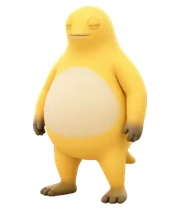
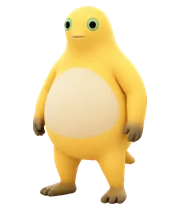
use all six classic idle frames

diff --git a/src/assets/pets/index.ts b/src/assets/pets/index.ts
@@ -149,7 +149,7 @@ export const PET_SKINS: readonly PetSkin[] = [
     },
     frameIntervalMs: 164,
     frameIntervalMsByState: {
-      idle: 1200,
+      idle: 600,
       beckon: 220,
       walk: 140,
       run: 90,

diff --git a/DEVELOPMENT.md b/DEVELOPMENT.md
@@ -113,11 +113,11 @@ CyberNaiwa/
 - **空闲自动行为**：成年 idle 9–16 秒后只自动进入 `wave`（扎马步）2.4 秒，再回 idle；beckon/walk/run/look/think/clap/crouch 不会自动播放。幼体保持 7–14 秒随机 walk/wave 的独立行为。
 - 动画关闭时强制回到 idle，并取消进行中的状态定时器；点击仍能切换动作/触发大笑，但只显示静态首帧。
 - `PetAnimation` 只在当前状态内轮播帧，切状态立即重置到第 0 帧；缺少某状态的帧时回退到 `idle`，不会渲染空帧。
-- 成年：经典 Idle 使用 `classic/idle-chubby/00–02.png` 三帧圆胖待机（`待机-06/01/03`，首帧最正面，1200ms/帧）；Walk 使用同一画风的 Nailong 走路帧；Click / Happy 使用 Codex Voice Input 的 25 帧大笑（手放肚子 → 仰头 → 抱头 → 回落），只由左键双击触发；Wave（扎马步）使用 `adult-wave.png`，Beckon（招手）使用 `classic/actions/beckon/00–02.png`。新动作的经典原画来自 Nailong-Studio 的 `pet/` 逐帧；ASCII 端 `beckon` 有独立 3 帧，其余新增动作复用最接近的现有姿态：run=walk、look/think=idle、clap=wave、eat=idle、crouch=wave，**绝不把 clap/eat 指到 happy/click 大笑帧**。
+- 成年：经典 Idle 使用 `classic/idle-chubby/00–05.png` 六帧圆胖待机（`待机-01–06`，循环从最正面的 06 开始，600ms/帧）；Walk 使用同一画风的 Nailong 走路帧；Click / Happy 使用 Codex Voice Input 的 25 帧大笑（手放肚子 → 仰头 → 抱头 → 回落），只由左键双击触发；Wave（扎马步）使用 `adult-wave.png`，Beckon（招手）使用 `classic/actions/beckon/00–02.png`。新动作的经典原画来自 Nailong-Studio 的 `pet/` 逐帧；ASCII 端 `beckon` 有独立 3 帧，其余新增动作复用最接近的现有姿态：run=walk、look/think=idle、clap=wave、eat=idle、crouch=wave，**绝不把 clap/eat 指到 happy/click 大笑帧**。
 - 幼体：Idle / Walk 使用幼体正面；Happy / Click 使用幼体素材右一叉腰；Wave 使用幼体素材中间抬手。幼体不使用成年大笑、挥手或新动作素材。
 - Sleep 与 Sad 状态均已移除（用户反馈睡觉和伤心界面不好看）；不再生成/播放 sleep 或 sad 帧。
 - ASCII 帧间隔：成年 idle 1200ms、walk 260ms、happy/click 164ms、wave 500ms、beckon 350ms、run 130ms、look 300ms、think 350ms、clap 160ms、eat 260ms、crouch 500ms；幼体 idle 1200ms、walk 260ms、happy 320ms、click 180ms、wave 500ms、beckon 350ms。
-- 奶家经典图片帧有独立间隔：idle 1200ms、beckon 220ms、walk 140ms、run 90ms、look 220ms、think 260ms、clap 110ms、eat 180ms、crouch 160ms、happy/click 164ms；wave 单帧不轮播，idle 3 帧循环。25×164ms ≈ 4.10s，和 4.11s 音频对齐。
+- 奶家经典图片帧有独立间隔：idle 600ms、beckon 220ms、walk 140ms、run 90ms、look 220ms、think 260ms、clap 110ms、eat 180ms、crouch 160ms、happy/click 164ms；wave 单帧不轮播，idle 6 帧循环。25×164ms ≈ 4.10s，和 4.11s 音频对齐。
 
 ### 点击语音
 
@@ -134,7 +134,7 @@ CyberNaiwa/
 - 幼体挥手源图裁切框从 `X=365/W=270` 改为 `X=310/W=285`：原框正好从 V 字手中间切过，导致手指缺失；新框完整包住中间幼体的抬手，112×70 与 128×80 两套网格都已重新采样。
 - `PetAnimation` 根据 `settings.palette` 选择帧组：`original` 走 `frames` / `babyFrames`，`cyber` 走 `cyberFrames` / `cyberBabyFrames`，`classic` 直接切到图片皮肤 `naiwa-classic`。成年 ASCII JSON 现在有 6 个基础动作的帧（idle/walk/happy/click/wave/beckon），幼体仍是原来的 5 个；`index.ts` 把 run/look/think/clap/eat/crouch 映射到最接近的现有姿态（run=walk、look/think=idle、clap=wave、eat=idle、crouch=wave），`beckon` 使用自己的 3 帧，并让 HUD、语音、时长保持独立。幼体不使用新动作；左键动作栈永远不引用 happy/click。
 - 成年 ASCII `wave` 不再从旧的裁切帧补边距，而是从经典 `adult-wave.png` 固定取景重采样：`FixedSide 430`、`CenterX 148`、`CenterY 206`，原色 112×70、量子 128×80 各一套；膝下小腿的 `|` 色调回金色 `%`，脚掌保留棕色 `|`，所以左膝到脚掌是连续轮廓。脚本是 `_qa/convert-naiwa.ps1` 和 `_qa/patch-ascii-wave-knee.py`。
-- 奶家经典图片皮肤：成年 idle 默认用 `classic/idle-chubby/00–02.png`（3 帧，来自 Nailong `待机-06/01/03`，180×210、底部 y=204、1200ms/帧，首帧最正面，和走路/跑步同一圆胖画风）；`adult-idle-aligned.png` 保留为高瘦正面备选，`classic/idle/00–05.png` 仍是 3/4 侧身备选。wave/扎马步用 `adult-wave.png`，beckon/招手用 `classic/actions/beckon/00–02.png`（来自 `招手-01/02/04`，220ms/帧），happy/click 用 `laugh-hd/000–024.webp`（524×720，164ms/帧，25×164≈4.10s，对齐 4.11s 音频；来自 1080×1474 原片 6.5–8.75s 抽 25 帧，去白底/地面阴影/胯下白块，3% padding，Lanczos 缩到 720 高，不锐化）；walk/run/look/think/clap/beckon/crouch 用 `classic/actions/<state>/` 的逐帧 PNG，`eat` 保留但不接入左键栈。动作帧统一补齐到 180×210 画布、底部对齐到 y=204（6px 底边距），所以脚和膝盖不会被裁。幼体 idle/walk、happy/click、wave 各用一张原画。`laugh/` 保留 180×180 的 MIT 原始帧，`laugh-cropped/` 是紧裁中间帧，`laugh-hires/` 是 648×888 的 6× 回退放大版；当前产品路径是 `laugh-hd`。
+- 奶家经典图片皮肤：成年 idle 默认用 `classic/idle-chubby/00–05.png`（6 帧，来自 Nailong `待机-01–06`，180×210、底部 y=204、600ms/帧，循环从最正面的 06 开始，和走路/跑步同一圆胖画风）；`adult-idle-aligned.png` 保留为高瘦正面备选，`classic/idle/00–05.png` 仍是 3/4 侧身备选。wave/扎马步用 `adult-wave.png`，beckon/招手用 `classic/actions/beckon/00–02.png`（来自 `招手-01/02/04`，220ms/帧），happy/click 用 `laugh-hd/000–024.webp`（524×720，164ms/帧，25×164≈4.10s，对齐 4.11s 音频；来自 1080×1474 原片 6.5–8.75s 抽 25 帧，去白底/地面阴影/胯下白块，3% padding，Lanczos 缩到 720 高，不锐化）；walk/run/look/think/clap/beckon/crouch 用 `classic/actions/<state>/` 的逐帧 PNG，`eat` 保留但不接入左键栈。动作帧统一补齐到 180×210 画布、底部对齐到 y=204（6px 底边距），所以脚和膝盖不会被裁。幼体 idle/walk、happy/click、wave 各用一张原画。`laugh/` 保留 180×180 的 MIT 原始帧，`laugh-cropped/` 是紧裁中间帧，`laugh-hires/` 是 648×888 的 6× 回退放大版；当前产品路径是 `laugh-hd`。
 - HUD 渲染规则：`Pet.tsx` 只在 `settings.palette !== "classic"` 时渲染 `NAIWA//STATE`；原色赛博用暖黄 `rgba(255,216,77,0.62)` + 黄点，量子赛博沿用蓝色 `rgba(126,249,255,0.6)` + 青点，奶家经典不渲染 HUD。设置页不再有「桌宠标签」开关，`hudEnabled` 从 `PetSettings` 移除。
 - 图片尺寸用 `height: 78vh; width: auto`，不是 `max-height`：原图小于窗口时也会放大。图片底部对齐 stage 内容底边，保留 22px 底部 padding；成年待机和动作的角色高约 280px，47 张动作帧的 alpha 最外像素距画布边缘至少 6px，映射到窗口后脚底距底边约 30px。
 - 奶家经典每个动作的帧间隔由 `frameIntervalMsByState` 控制；happy/click 使用 164ms，和 4.11s 大笑音频对齐。
@@ -291,4 +291,5 @@ cargo check --manifest-path src-tauri/Cargo.toml
 - 2026-11-16 replace the classic idle with the three-frame `idle-chubby` set from the Nailong `待机-06/01/03` art (front-facing first frame, 180×210, 6 px bottom, 1200 ms) and add the adult `beckon` action (three `招手-01/02/04` frames, 220 ms classic / 350 ms ASCII, 1800 ms flow) right after `wave`; generate dedicated 112×70/128×80 beckon grids, restore misread `_` limb pixels to `|`, and keep the action out of the baby stack.
 - 2026-11-16 implement native click-through: a 32 ms global cursor poll toggles `setIgnoreCursorEvents` only over character pixels or the settings button, while the bubble/HUD/shadow/transparent margins pass clicks to the window below. The gear is shown from the same `pointerInside` state so it remains reachable while the window is click-through; transparent margins no longer drag, so the character is the drag handle.
 - 2026-11-17 move the adult laugh to left double-click, restore right-click to the native menu, skip voice/subtitles for walk/run, and remove the settings gear now that the right-click menu always exposes Settings; transparent edges now have no button hotspot at all.
+- 2026-11-17 expand the classic idle from the three-frame preview to all six Nailong `待机` frames (`05 → 00 → 01 → 02 → 03 → 04`, 600 ms/frame) so the standing loop blinks and sways instead of repeating three poses.
 - 2026-11-16 bump to 0.2.1 and replace `docs/settings.png` with the 赛博奶蛙 settings screenshot (原色模式/量子模式, no sleep copy, version 0.2.1).

diff --git a/README.en.md b/README.en.md
@@ -139,7 +139,7 @@ Two keys live in that file: `settings` (always-on-top, scale, animation, sound, 
 
 The default `cyber-naiwa` skin stores Original Cyber adult/baby frames in `naiwa-frames.json` and `naiwa-baby-frames.json` (112×70), and Quantum Cyber adult/baby frames in `naiwa-cyber-frames.json` and `naiwa-cyber-baby-frames.json` (128×80). The adult sets cover six base poses (idle/walk/happy/click/wave/beckon); adult happy/click use 25 frames each, wave uses two, and beckon uses three. The baby keeps the original five (idle/walk/happy/click/wave), two frames per state. The extra adult actions (run/look/think/clap/eat/crouch) are registered in `index.ts` as aliases of the closest base pose; beckon has its own three-frame conversion. Both keep their own HUD labels, timing and durations. The adult wave grids are resampled from `classic/adult-wave.png` with a fixed 430 px crop centred at (148,206) for both 112×70 and 128×80, so the knees and feet no longer touch the grid edge; the shadowed shins are promoted from `|` to `%` while the feet stay brown, keeping the left knee-to-foot silhouette continuous. Beckon is converted from the Nailong `招手-01/02/04` art with a fixed 230 px crop centred at (63,99) for both grids; warm hand/foot pixels misread as the mouth tone are restored to `|`. `frames.ts` maps characters to colour tones and declares frame timing. The 25 adult laugh frames come from [liaosongjie/Codex-Voice-Input](https://github.com/liaosongjie/Codex-Voice-Input)'s MIT animation frames (fixed-crop conversion to ASCII); the other base grids were pixel-mapped from the official design database's adult, juvenile, laugh, and wave references; the beckon grids come from the Nailong-Studio MIT `招手` frames. No ASCII reference image files themselves are shipped in the repo. The app icon is taken from the baby's Original Cyber ASCII idle frame instead of being drawn separately.
 
-The `naiwa-classic` skin lives in `src/assets/pets/classic/`: adult idle defaults to `classic/idle-chubby/00–02.png` (three frames from the Nailong `待机-06/01/03` art, 180×210 with a 6 px bottom margin, 1200 ms per frame; frame 00 is the most front-facing and the set matches the walk/run art style). `adult-idle-aligned.png` remains the tall front fallback, and `classic/idle/00–05.png` keeps the 3/4 side-facing alternative. Adult wave and all three baby states are transparent cut-outs of the official design reference sheets; the baby crops were widened so hands, feet, and knees keep a 14 px inner margin; adult happy/click uses `classic/laugh-hd/000–024.webp`, extracted from the 1080×1474 `naiwa-laugh.mp4` at 6.5–8.75 s. The 25 frames have their white background, floor shadow, and white crotch gap removed, keep 3% padding, and are Lanczos-downscaled to 524×720 with no sharpening at 164 ms each (25 × 164 ms ≈ 4.10 s, matching the 4.11 s laugh audio). `classic/laugh/` keeps the original 180×180 MIT frames and `classic/laugh-hires/` keeps the 648×888 6× upscale fallback. The video source has no explicit redistribution licence in `SOURCES.md`; the project owner approved its fan-use inclusion, and the skin can switch back to `laugh-hires` if needed. Action frames use `classic/actions/<action>/` padded to 180×210 with a 6 px bottom margin; the eating frames stay in the library but are not wired to left-click because the open-mouth pose reads as a laugh. The new beckon action uses `classic/actions/beckon/00–02.png` from `招手-01/02/04` at 220 ms per frame. Images scale to the window height so the body stays about 280 px and the feet stay visible. The cut-out/upscale scripts are `_qa/make-classic-cutouts.ps1`, `_qa/make-baby-cutouts.py`, `_qa/crop-classic-laugh.ps1`, `_qa/upscale-classic-laugh.py`, `_qa/build-hd-laugh.py`, `_qa/build-classic-actions.py`, `_qa/build-classic-idle.py`, `_qa/build-classic-idle-beckon.py`, and `_qa/insert-ascii-beckon.py` (`_qa/` is not committed). This is fan-made, non-commercial use; source and licence notes are in `_qa/reference/official/laugh/SOURCES.md`.
+The `naiwa-classic` skin lives in `src/assets/pets/classic/`: adult idle defaults to `classic/idle-chubby/00–05.png` (six frames from the Nailong `待机-01–06` art, 180×210 with a 6 px bottom margin, 600 ms per frame; the loop starts on the most front-facing 06 and the set matches the walk/run art style). `adult-idle-aligned.png` remains the tall front fallback, and `classic/idle/00–05.png` keeps the 3/4 side-facing alternative. Adult wave and all three baby states are transparent cut-outs of the official design reference sheets; the baby crops were widened so hands, feet, and knees keep a 14 px inner margin; adult happy/click uses `classic/laugh-hd/000–024.webp`, extracted from the 1080×1474 `naiwa-laugh.mp4` at 6.5–8.75 s. The 25 frames have their white background, floor shadow, and white crotch gap removed, keep 3% padding, and are Lanczos-downscaled to 524×720 with no sharpening at 164 ms each (25 × 164 ms ≈ 4.10 s, matching the 4.11 s laugh audio). `classic/laugh/` keeps the original 180×180 MIT frames and `classic/laugh-hires/` keeps the 648×888 6× upscale fallback. The video source has no explicit redistribution licence in `SOURCES.md`; the project owner approved its fan-use inclusion, and the skin can switch back to `laugh-hires` if needed. Action frames use `classic/actions/<action>/` padded to 180×210 with a 6 px bottom margin; the eating frames stay in the library but are not wired to left-click because the open-mouth pose reads as a laugh. The new beckon action uses `classic/actions/beckon/00–02.png` from `招手-01/02/04` at 220 ms per frame. Images scale to the window height so the body stays about 280 px and the feet stay visible. The cut-out/upscale scripts are `_qa/make-classic-cutouts.ps1`, `_qa/make-baby-cutouts.py`, `_qa/crop-classic-laugh.ps1`, `_qa/upscale-classic-laugh.py`, `_qa/build-hd-laugh.py`, `_qa/build-classic-actions.py`, `_qa/build-classic-idle.py`, `_qa/build-classic-idle-beckon.py`, and `_qa/insert-ascii-beckon.py` (`_qa/` is not committed). This is fan-made, non-commercial use; source and licence notes are in `_qa/reference/official/laugh/SOURCES.md`.
 
 Want to try a PNG/WEBP/GIF skin? `src/assets/pets/README.md` shows how to register an `ImagePetSkin`. The renderer already handles both ASCII and image sequences. Please only add art you have the right to redistribute.
 

diff --git a/README.md b/README.md
@@ -139,7 +139,7 @@ pnpm tauri build --bundles dmg
 
 默认 ASCII 角色 `cyber-naiwa` 的原色赛博成年帧在 `src/assets/pets/cyber-naiwa/naiwa-frames.json`，幼体帧在 `naiwa-baby-frames.json`（112×70）；量子赛博成年/幼体帧在 `naiwa-cyber-frames.json`、`naiwa-cyber-baby-frames.json`（128×80）。成年帧覆盖 idle / walk / happy / click / wave / beckon；成年 happy/click 各 25 帧，wave 2 帧，beckon 3 帧，其余状态每态 2 帧；幼体仍是 idle / walk / happy / click / wave 每态 2 帧。新增的 run / look / think / clap / eat / crouch 在 `src/assets/pets/index.ts` 复用最接近的现有 ASCII 姿态，`beckon` 则有独立的 3 帧招手帧，二者都保留独立 HUD 标签、帧间隔和动作时长。成年 wave 帧从 `classic/adult-wave.png` 用固定取景 `FixedSide 430`、中心 `(148,206)` 重采样到 112×70/128×80，膝盖、脚不再贴网格边；膝下小腿的 `|` 色调回金色 `%`，脚掌保留棕色，所以左膝到脚掌是连续轮廓。招手帧从 Nailong 的 `招手-01/02/04` 原画用 `FixedSide 230`、中心 `(63,99)` 转成 112×70/128×80，脚部误判的 `_` 已改回 `|`。字符 tone、帧间隔和渲染逻辑在 `frames.ts`。成年大笑的 25 帧来自 [liaosongjie/Codex-Voice-Input](https://github.com/liaosongjie/Codex-Voice-Input) 的 MIT 动画帧（固定取景后转成 ASCII）；其余基础帧由官方设计资料库中的成年 / 幼体 / 大笑 / 挥手参考图逐像素映射生成，招手 3 帧来自 Nailong-Studio 的 MIT `招手` 素材；ASCII 帧的参考图片本身不入库。应用图标取自幼体原色赛博 ASCII 待机帧，不再单独绘制。
 
-奶家经典皮肤 `naiwa-classic` 在 `src/assets/pets/classic/`：成年待机默认使用 `classic/idle-chubby/00–02.png`（3 帧，180×210，底部留 6px，1200ms/帧，来自 Nailong `待机-06/01/03` 的圆胖全身原画，首帧最正面），和走路/跑步同一画风；`adult-idle-aligned.png` 保留为高瘦正面备选，Nailong 的 `classic/idle/00–05.png` 仍是 3/4 侧身备选。成年扎马步（wave）和幼体三态是官方设计参考图的透明抠图；幼体三态已重新放宽裁切，手、脚、膝盖都有 14px 内边距；成年 happy/click 使用 `classic/laugh-hd/000–024.webp`，从 1080×1474 的 `naiwa-laugh.mp4` 6.5–8.75 秒抽 25 帧，去掉白底、地面阴影和胯下白块，统一留 3% 边距后 Lanczos 缩到 524×720，不做锐化，164ms/帧，和 4.11 秒大笑音频对齐。`classic/laugh/` 保留原始 180×180 MIT 帧，`classic/laugh-hires/` 保留 648×888 的 6× 放大回退版；视频源的再分发许可记录不完整，已按项目所有者确认作为粉丝二创使用，必要时可切回 `laugh-hires`。走、跑、张望、思考、鼓掌、招手、蹲伏使用 `classic/actions/<action>/` 的逐帧原画，来自 Nailong-Studio 的 MIT 素材，统一补齐到 180×210 画布、底部留 6px，所以脚和膝盖不会被窗口裁掉；招手（beckon）3 帧来自 `招手-01/02/04`，220ms/帧；`进食` 帧保留在素材里，但因为张嘴仰头太像大笑，暂不接入左键动作栈。图片按窗口高度缩放，成年待机和动作的身体高度约 280px。抠图/放大/补帧脚本是 `_qa/make-classic-cutouts.ps1`、`_qa/make-baby-cutouts.py`、`_qa/crop-classic-laugh.ps1`、`_qa/upscale-classic-laugh.py`、`_qa/build-hd-laugh.py`、`_qa/build-classic-actions.py`、`_qa/build-classic-idle.py`、`_qa/build-classic-idle-beckon.py` 和 `_qa/insert-ascii-beckon.py`（`_qa/` 不入库）。这部分是粉丝二创非商业使用，来源与授权说明见 `_qa/reference/official/laugh/SOURCES.md`。
+奶家经典皮肤 `naiwa-classic` 在 `src/assets/pets/classic/`：成年待机默认使用 `classic/idle-chubby/00–05.png`（6 帧，180×210，底部留 6px，600ms/帧，来自 Nailong `待机-01–06` 的圆胖全身原画，循环从最正面的 06 开始），和走路/跑步同一画风；`adult-idle-aligned.png` 保留为高瘦正面备选，Nailong 的 `classic/idle/00–05.png` 仍是 3/4 侧身备选。成年扎马步（wave）和幼体三态是官方设计参考图的透明抠图；幼体三态已重新放宽裁切，手、脚、膝盖都有 14px 内边距；成年 happy/click 使用 `classic/laugh-hd/000–024.webp`，从 1080×1474 的 `naiwa-laugh.mp4` 6.5–8.75 秒抽 25 帧，去掉白底、地面阴影和胯下白块，统一留 3% 边距后 Lanczos 缩到 524×720，不做锐化，164ms/帧，和 4.11 秒大笑音频对齐。`classic/laugh/` 保留原始 180×180 MIT 帧，`classic/laugh-hires/` 保留 648×888 的 6× 放大回退版；视频源的再分发许可记录不完整，已按项目所有者确认作为粉丝二创使用，必要时可切回 `laugh-hires`。走、跑、张望、思考、鼓掌、招手、蹲伏使用 `classic/actions/<action>/` 的逐帧原画，来自 Nailong-Studio 的 MIT 素材，统一补齐到 180×210 画布、底部留 6px，所以脚和膝盖不会被窗口裁掉；招手（beckon）3 帧来自 `招手-01/02/04`，220ms/帧；`进食` 帧保留在素材里，但因为张嘴仰头太像大笑，暂不接入左键动作栈。图片按窗口高度缩放，成年待机和动作的身体高度约 280px。抠图/放大/补帧脚本是 `_qa/make-classic-cutouts.ps1`、`_qa/make-baby-cutouts.py`、`_qa/crop-classic-laugh.ps1`、`_qa/upscale-classic-laugh.py`、`_qa/build-hd-laugh.py`、`_qa/build-classic-actions.py`、`_qa/build-classic-idle.py`、`_qa/build-classic-idle-beckon.py` 和 `_qa/insert-ascii-beckon.py`（`_qa/` 不入库）。这部分是粉丝二创非商业使用，来源与授权说明见 `_qa/reference/official/laugh/SOURCES.md`。
 
 想换成 PNG/WEBP/GIF 皮肤时，按 `src/assets/pets/README.md` 的说明注册 `ImagePetSkin` 即可，渲染器同时支持 ASCII 和图片序列。请不要提交没有 redistribution 权限的素材。
 

diff --git a/design-qa.md b/design-qa.md
@@ -286,6 +286,13 @@
 - 实测：单击后 100ms 仍是 `idle`，400ms 进入 `wave`；双击后进入 `happy`，音频日志只有 `naiwa-laugh-long.wav`；`walk` / `run` 进入时音频日志为空；右键后状态保持 `idle`，系统出现 `#32768` 原生菜单窗口，没有笑声。
 - 已知取舍：双击要等 300ms 才执行单击动作；动作流程进行中双击仍被流程锁忽略；设置可通过右键菜单、中键或托盘进入。`pnpm build` 通过。
 
+## 2026-11-17 — Phase 35：6 帧待机循环
+
+- 上游 NaiWa-Wallpaper v2.7 的 `pet/` 列出 6 帧待机；本地 `_qa/reference/actions/full/idle/00–05.png` 已经是完整一套（对应 `待机-01`–`待机-06`），不需要重新下载。
+- `classic/idle-chubby` 从 3 帧扩到 6 帧，输出顺序 `05 → 00 → 01 → 02 → 03 → 04`（从最正面的 `待机-06` 开始循环），仍为 180×210、底部 y=204（6px 底边距）。
+- `frameIntervalMsByState.idle` 从 1200ms 改为 600ms，6 帧约 3.6 秒一循环；`src` 实测在 `00 → 02 → 03` 之间轮播。
+- 文档同步：站立从“3 帧 / 1200ms / 待机-06/01/03”改为“6 帧 / 600ms / 待机-01–06”。`pnpm build` 通过。
+
 ## 待人工确认
 
 - 托盘菜单的物理点击仍需在桌面通知区实际点一遍；窗口 show/hide/设置/退出逻辑已实现。

diff --git a/src/assets/pets/README.md b/src/assets/pets/README.md
@@ -29,10 +29,10 @@ restored to `|`.
 ## Classic skin
 
 `naiwa-classic` is an `ImagePetSkin` using the cut-out original artwork in
-`classic/`: adult idle defaults to `classic/idle-chubby/00`–`02.png` (three
-frames from the Nailong `待机-06/01/03` art, 180×210 with a 6 px bottom margin,
-1200 ms per frame; frame 00 is the most front-facing and matches the walk/run
-art style). `adult-idle-aligned.png` remains the tall front fallback, and
+`classic/`: adult idle defaults to `classic/idle-chubby/00`–`05.png` (six
+frames from the Nailong `待机-01–06` art, 180×210 with a 6 px bottom margin,
+600 ms per frame; the loop starts on the most front-facing 06 and matches the
+walk/run art style). `adult-idle-aligned.png` remains the tall front fallback, and
 `classic/idle/00`–`05.png` keeps the 3/4 side-facing alternative. Wave and baby
 idle/happy/wave remain single cut-out PNGs; the three baby images were re-cropped from the
 official juvenile sheet with a 14 px inner margin so hands, feet, and knees are
